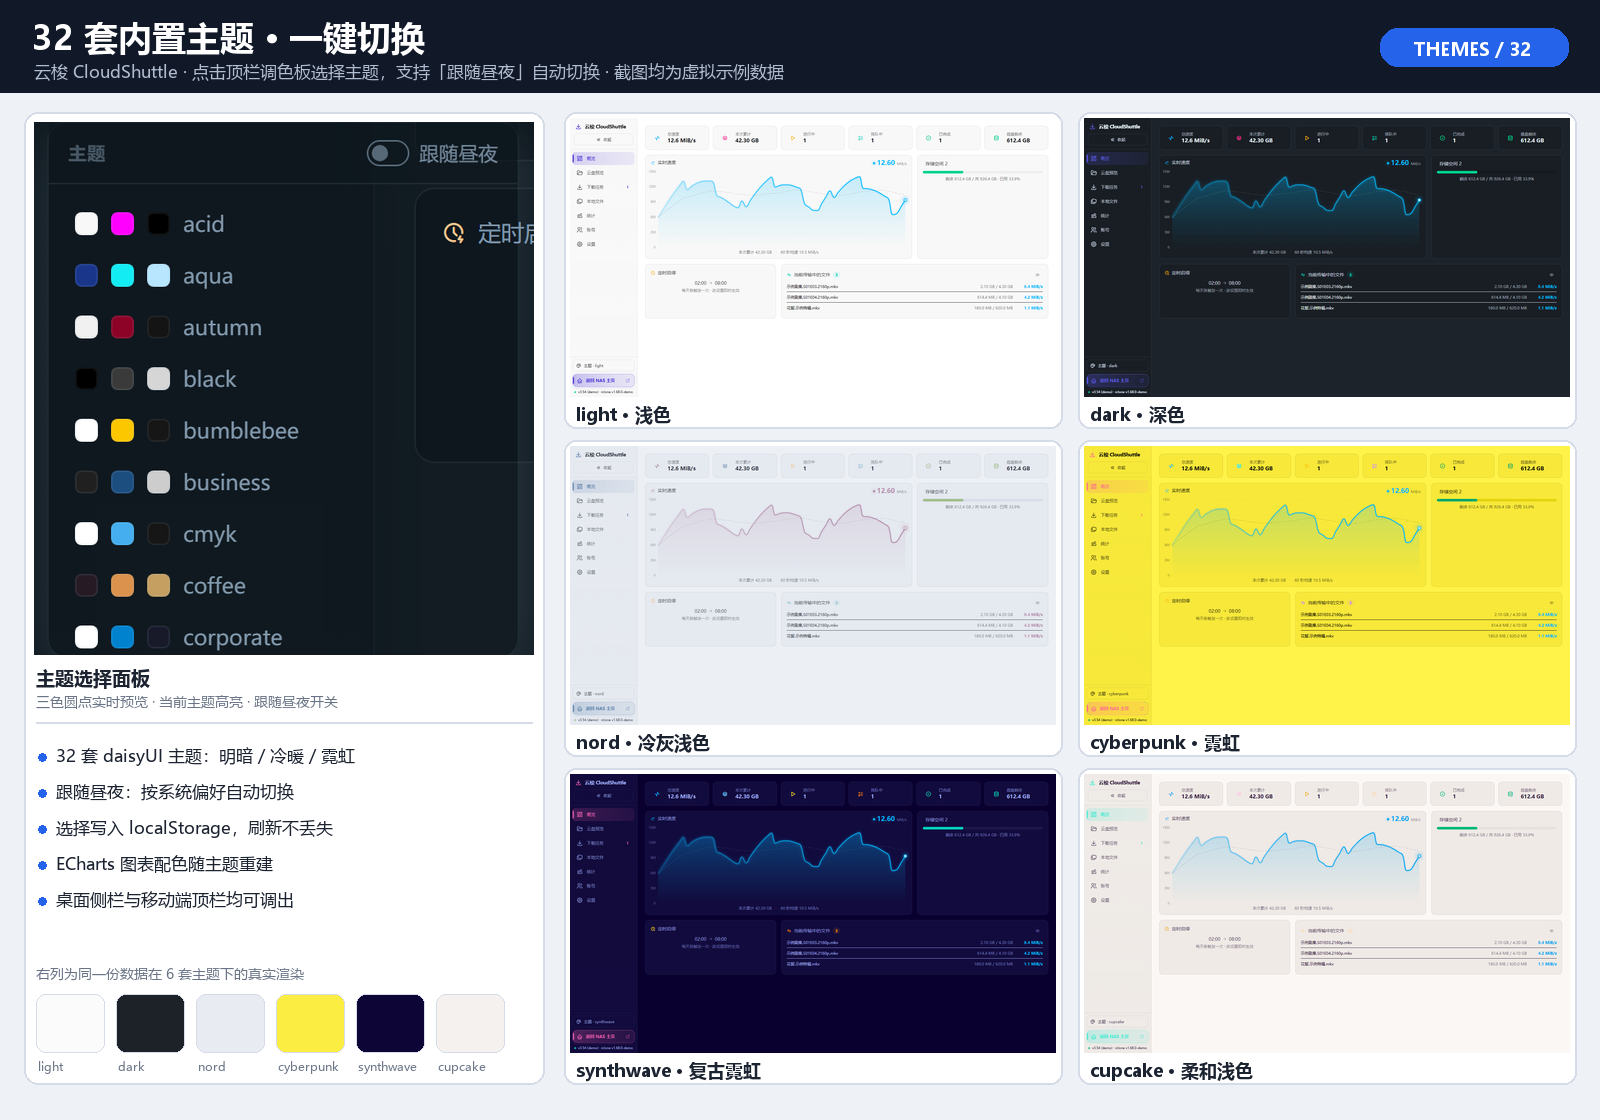
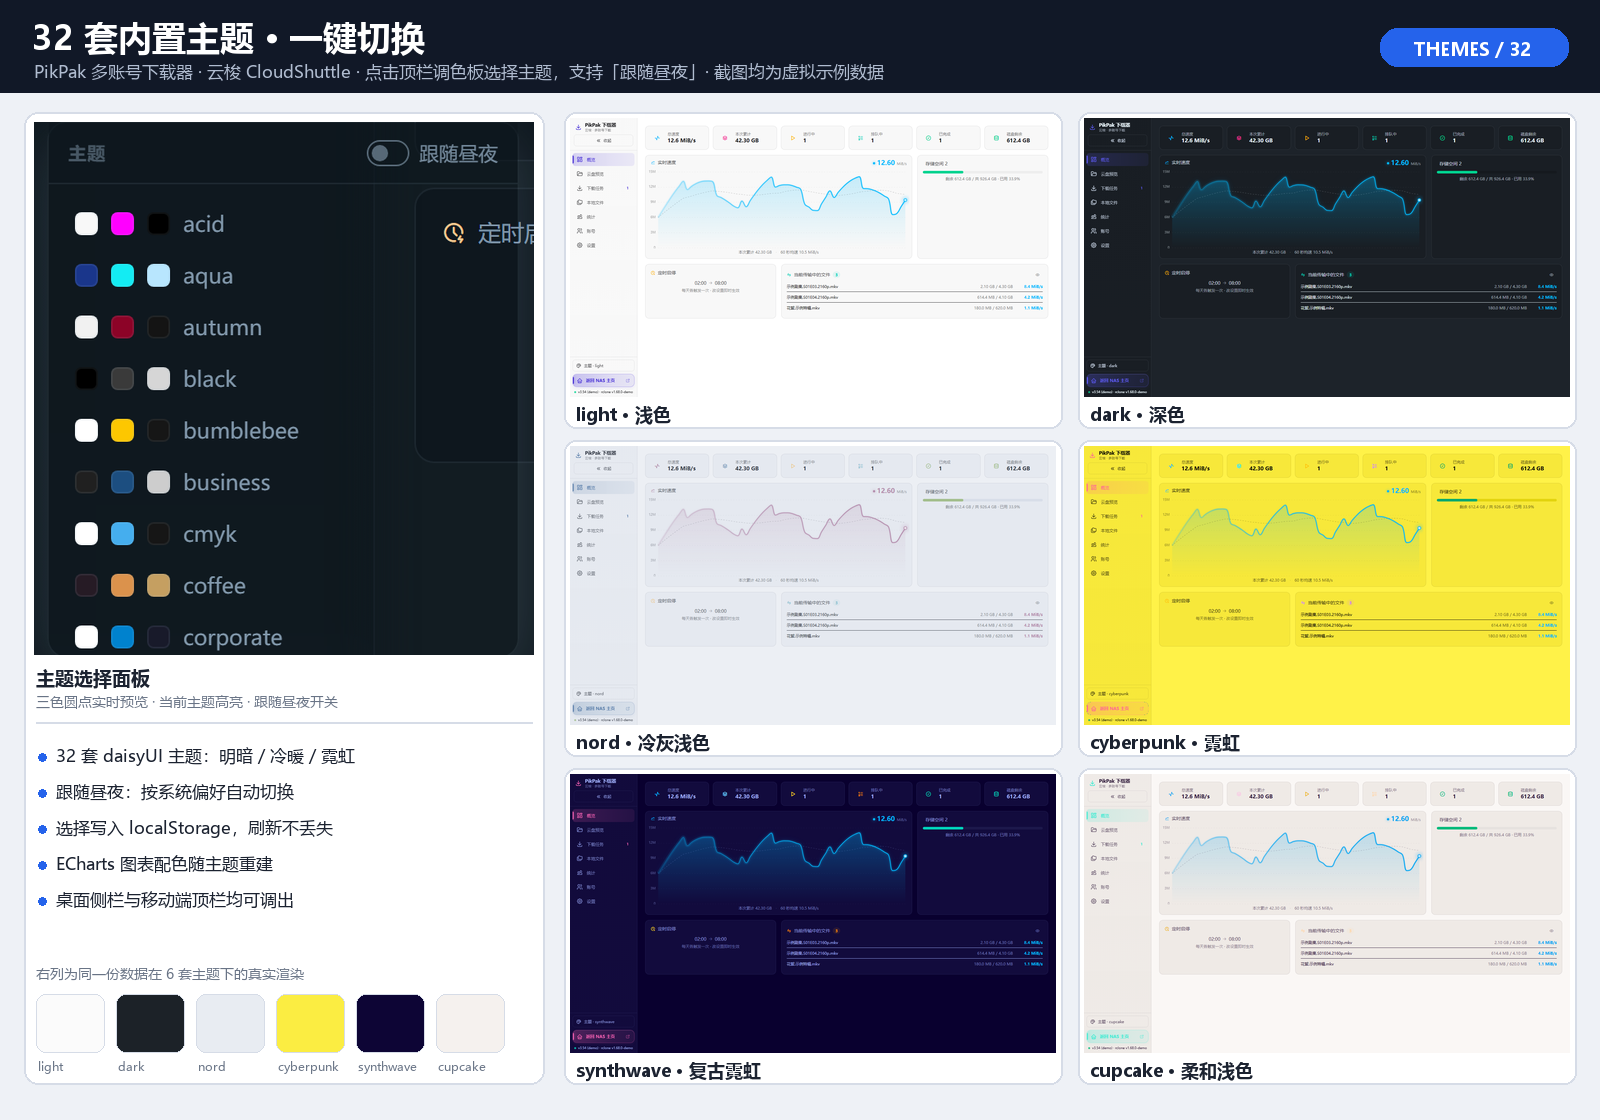
docs: 页面与 README 保留 PikPak 多账号下载器定位，精简更新章节

diff --git a/static/index.html b/static/index.html
@@ -3,7 +3,7 @@
 <head>
 <meta charset="utf-8">
 <meta name="viewport" content="width=device-width,initial-scale=1,viewport-fit=cover">
-<title>云梭 CloudShuttle · 下载控制台</title>
+<title>PikPak 多账号下载器 · 云梭 CloudShuttle</title>
 <script>
 /* 主题预上色：在 CSS 加载前落好 data-theme，避免闪白 */
 (function(){try{
@@ -35,7 +35,10 @@
     <header class="relative z-30 flex h-14 shrink-0 items-center justify-between border-b border-base-content/10 bg-base-300/95 px-3 shadow-[0_4px_20px_color-mix(in_oklab,var(--color-base-content)_5%,transparent)] backdrop-blur-[12px] lg:hidden">
       <div class="flex items-center gap-2 text-primary">
         <i class="ti ti-download text-xl leading-none"></i>
-        <span class="text-sm font-bold tracking-tight">云梭 CloudShuttle</span>
+        <span class="flex flex-col leading-tight">
+          <span class="text-sm font-bold tracking-tight">PikPak 下载器</span>
+          <span class="text-[10px] font-medium text-base-content/50">多账号 · 云梭</span>
+        </span>
       </div>
       <div class="relative flex items-center">
         <!-- 移动端也保留返回入口（窄屏没有左侧栏） -->
@@ -80,7 +83,10 @@
         <div class="flex flex-col gap-2 border-b border-base-content/10 p-3">
           <div class="flex min-h-7 items-center gap-2.5 px-1" v-show="!collapsed">
             <i class="ti ti-download text-xl leading-none text-primary"></i>
-            <span class="text-[15px] font-bold tracking-tight">云梭 CloudShuttle</span>
+            <div class="flex min-w-0 flex-col leading-tight">
+              <span class="text-[15px] font-bold tracking-tight">PikPak 下载器</span>
+              <span class="text-[10px] font-medium tracking-wide text-base-content/50">云梭 · 多账号下载</span>
+            </div>
           </div>
           <button class="press-tactile flex h-9 items-center justify-center rounded-lg border border-base-content/10 text-base-content/80 transition-colors hover:border-base-content/20 hover:bg-base-content/5"
                   :class="collapsed ? 'aspect-square w-9 self-center' : 'w-full'"

diff --git a/download-console.py b/download-console.py
@@ -1,6 +1,6 @@
 #!/usr/bin/env python3
 # -*- coding: utf-8 -*-
-"""云梭 CloudShuttle · PikPak 批量下载控制台 v3.0 —— metacubexd 设计系统重构（sunset 暗色主题 · Vue 3 · 弹性动效）
+"""PikPak 多账号下载器（云梭 CloudShuttle）· 批量下载控制台 v3.0 —— metacubexd 设计系统重构（sunset 暗色主题 · Vue 3 · 弹性动效）
    前端在 ./static/（Vue3 + Tailwind v4 + DaisyUI v5 全部自托管，无外网 CDN 依赖）；
    API 与 v2.2 完全兼容，任务/设置数据路径不变"""
 import base64, hashlib, io, json, os, re, select, shutil, socket, ssl, stat as statmod, subprocess, sys, tarfile, threading, time
@@ -5995,7 +5995,7 @@ if __name__ == "__main__":
     print("%s 数据目录: %s" % (time.strftime("%F %T"), DATA_DIR))
     threading.Thread(target=scheduler, daemon=True).start()
     threading.Thread(target=cred_keepalive_loop, daemon=True).start()
-    print("云梭 CloudShuttle %s (按任务选择 mihomo 代理 · 凭证保活 · 测速每路 %ss): "
+    print("PikPak 多账号下载器（云梭 CloudShuttle）%s (按任务选择 mihomo 代理 · 凭证保活 · 测速每路 %ss): "
           "http://0.0.0.0:5566  ·  static: %s"
           % (APP_VERSION, SPEEDTEST_SECONDS, STATIC_DIR))
     class ConsoleHTTPServer(ThreadingHTTPServer):

diff --git a/CHANGELOG.md b/CHANGELOG.md
@@ -15,9 +15,9 @@
 - 前端设置页新增「版本与更新」卡片（检查结果、发行说明、下载并更新、回滚、上次更新记录），侧栏版本旁显示「有新版本」提示；
 - 版本号升至 `v3.54`，4 个更新 action 的超时单独配置；下载优先走 GitHub API 的 asset 端点（`api.github.com`），失败再回退 Release 直链，兼顾只放行 API 域名或走代理的网络。
 
-**项目命名**：对外统一为「云梭 · CloudShuttle」，仓库 `cloud-shuttle`；页面标题 / 侧栏品牌、启动横幅、README、部署与 API 文档、示例配置同步改名。技术标识（容器名、入口文件名、服务名）保持不变。
+**项目命名**：产品代号「云梭 · CloudShuttle」，仓库 `cloud-shuttle`；页面标题 / 侧栏品牌、启动横幅、README 与文档均保留「PikPak 下载器」字样，并明确「PikPak 多账号下载」的定位。技术标识（容器名、入口文件名、服务名）保持不变。
 
-**文档**：README 补充「多主题切换」「检查更新与一键升级」两节，新增第 8 张多主题功能图与第 9 张更新卡片特写；全部 9 张截图按新品牌与 v3.54 重新生成。
+**文档**：README 补充「多主题切换」「检查更新与一键升级」两节，新增第 8 张多主题功能图与第 9 张更新卡片特写；全部 9 张截图按新品牌与 v3.54 重新生成；「检查更新与一键升级」随后精简为简要说明 + 截图，技术细节集中在 `docs/UPDATE.md`。
 
 ## Unreleased — 仓库化整理（2026-11-09）
 

diff --git a/docs/DEPLOYMENT.md b/docs/DEPLOYMENT.md
@@ -1,6 +1,6 @@
-# 云梭 CloudShuttle · 部署与运维
+# PikPak 多账号下载器 · 部署与运维
 
-面向从零部署一份新的云梭控制台。文中所有路径、账号、密码都是占位符，请按自己的环境替换。
+面向从零部署一份新的 PikPak 多账号下载器（云梭控制台）。文中所有路径、账号、密码都是占位符，请按自己的环境替换。
 
 ## 1. 端口与依赖
 
@@ -46,7 +46,7 @@ cp .env.example .env
 
 docker compose -f docker-compose.example.yml up -d --build
 docker compose -f docker-compose.example.yml logs -f download-console
-# 看到「云梭 CloudShuttle v3.54」启动横幅即正常
+# 看到「PikPak 多账号下载器（云梭 CloudShuttle）v3.54」启动横幅即正常
 
 curl -s -X POST http://127.0.0.1:5566/api \
   -H 'Content-Type: application/json' -d '{"action":"version"}'

diff --git a/docs/API.md b/docs/API.md
@@ -1,4 +1,4 @@
-# 云梭 CloudShuttle · API 速查
+# PikPak 多账号下载器 · API 速查
 
 所有接口都是 `POST /api`，请求体为 JSON，用 `action` 字段区分操作：
 

diff --git a/SECURITY.md b/SECURITY.md
@@ -1,4 +1,4 @@
-# 云梭 CloudShuttle · 安全须知
+# PikPak 多账号下载器 · 安全须知
 
 ## 绝不要提交的文件
 
